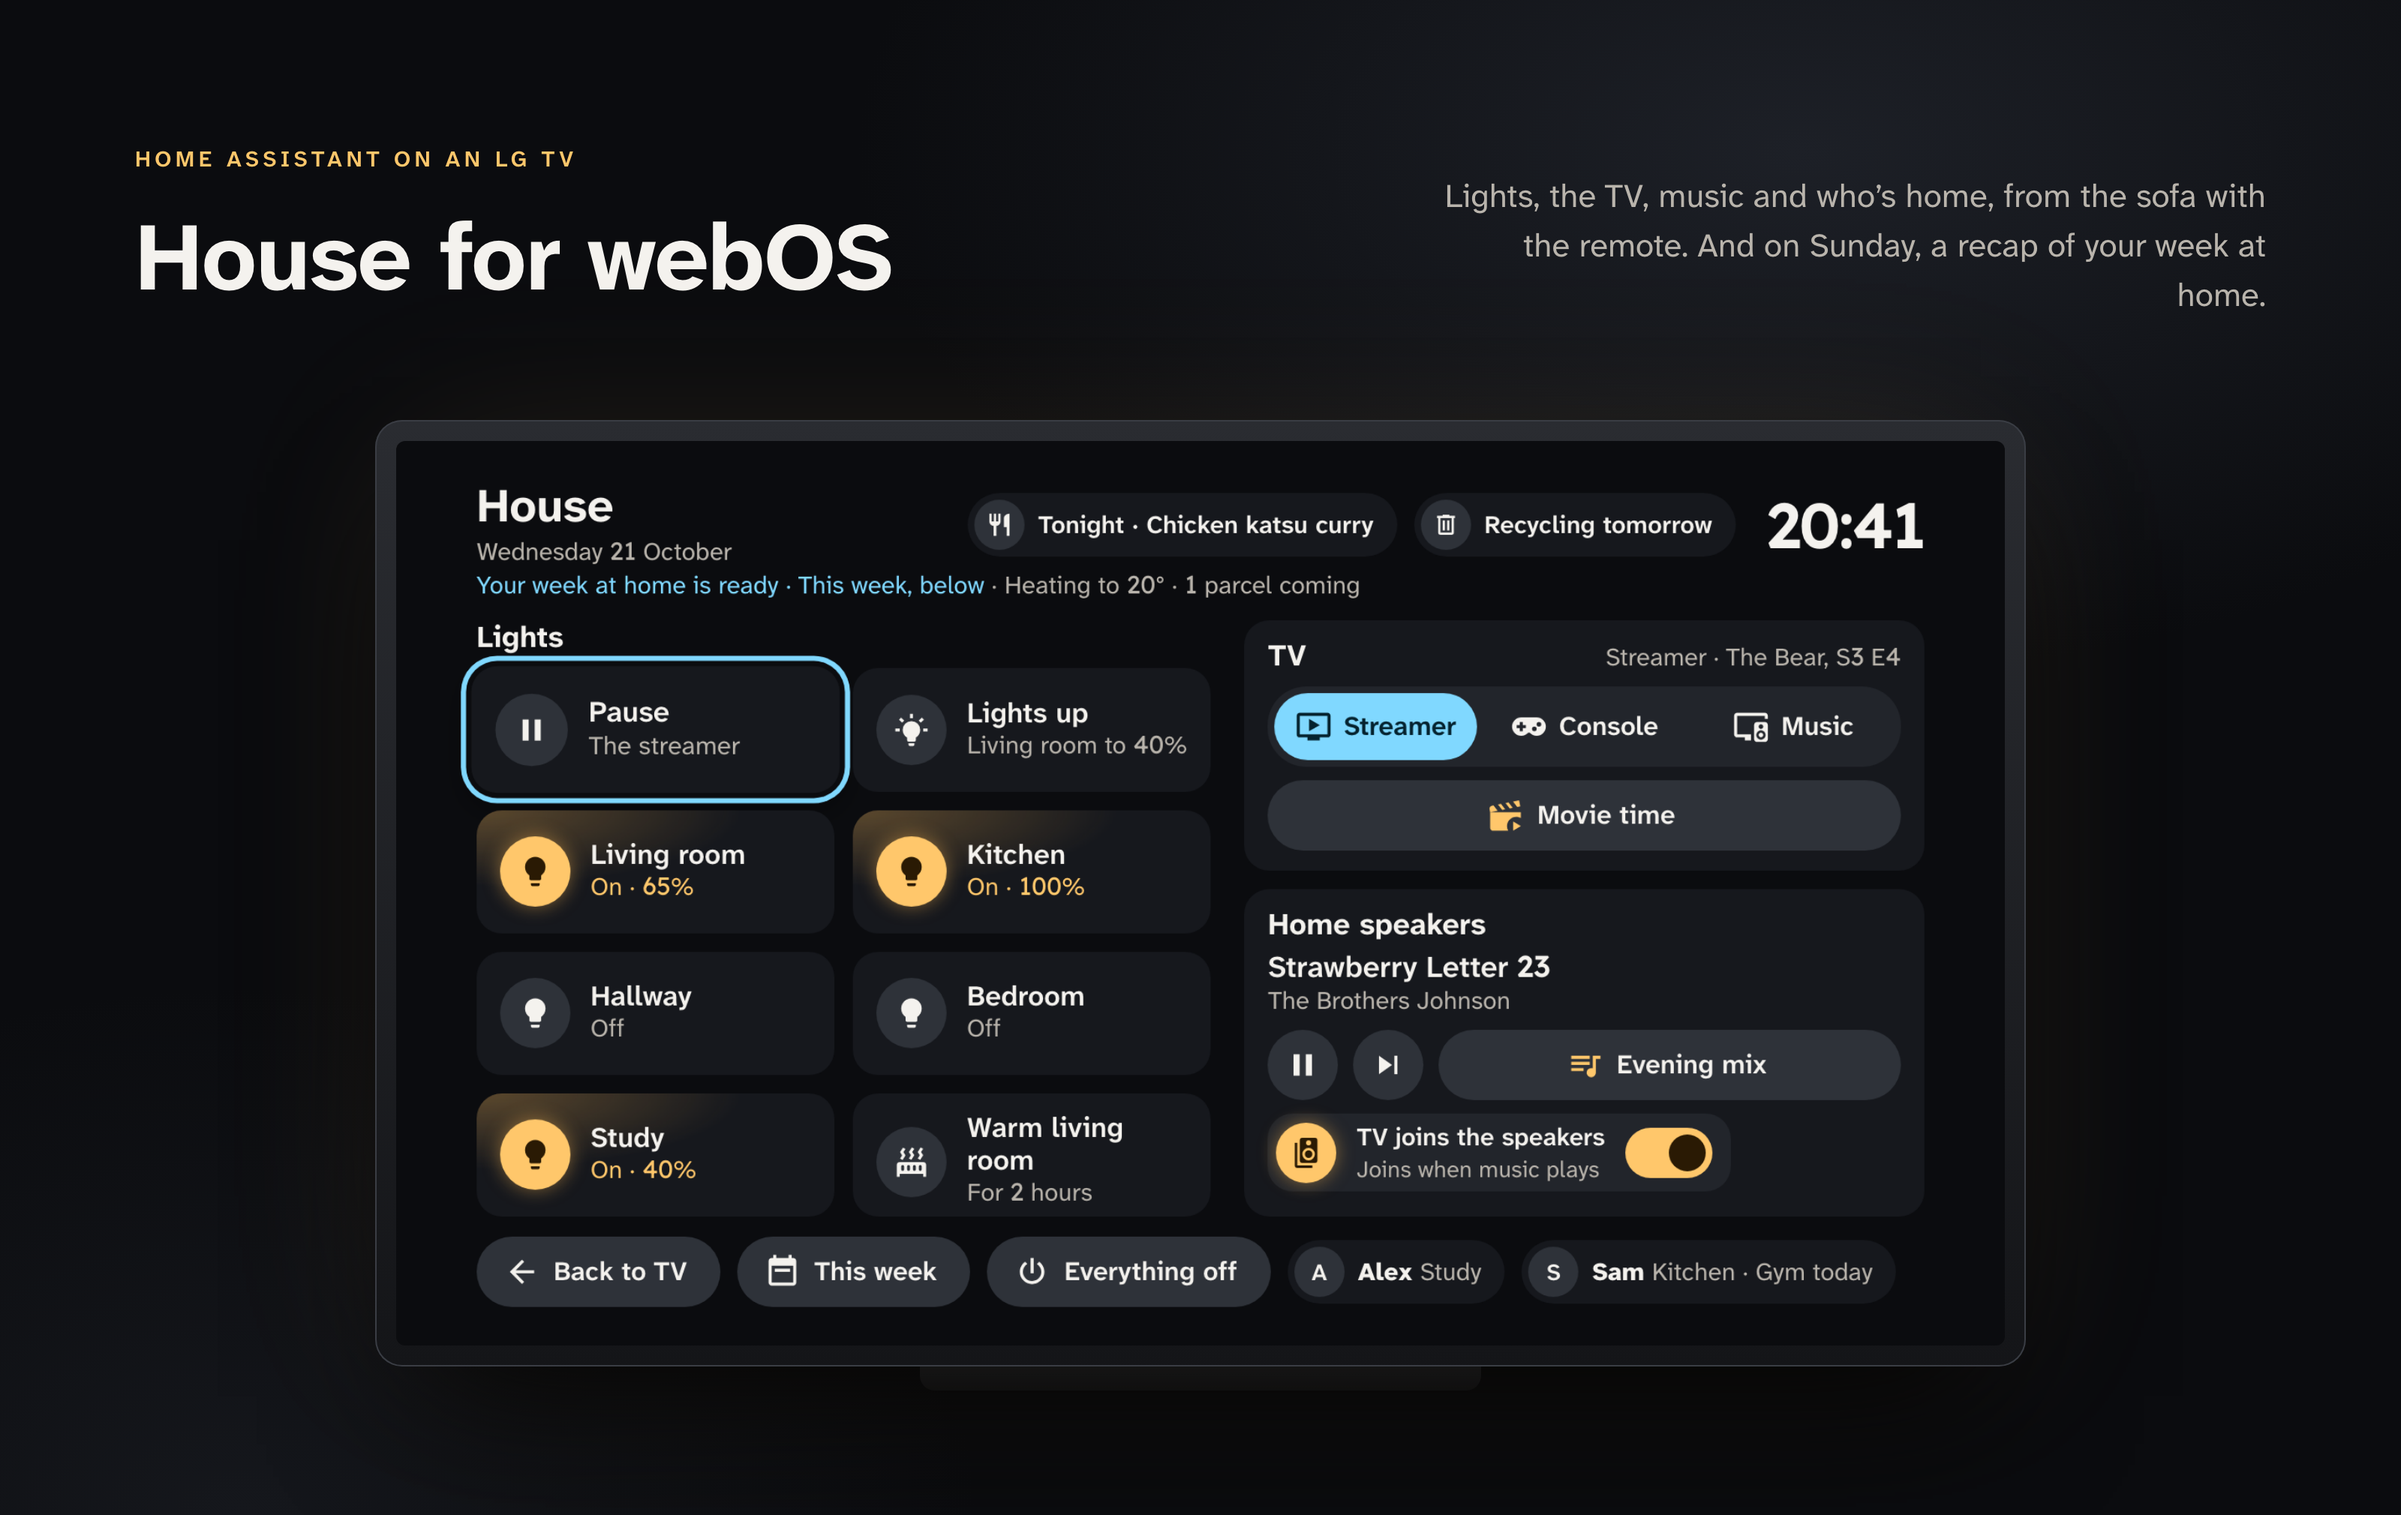
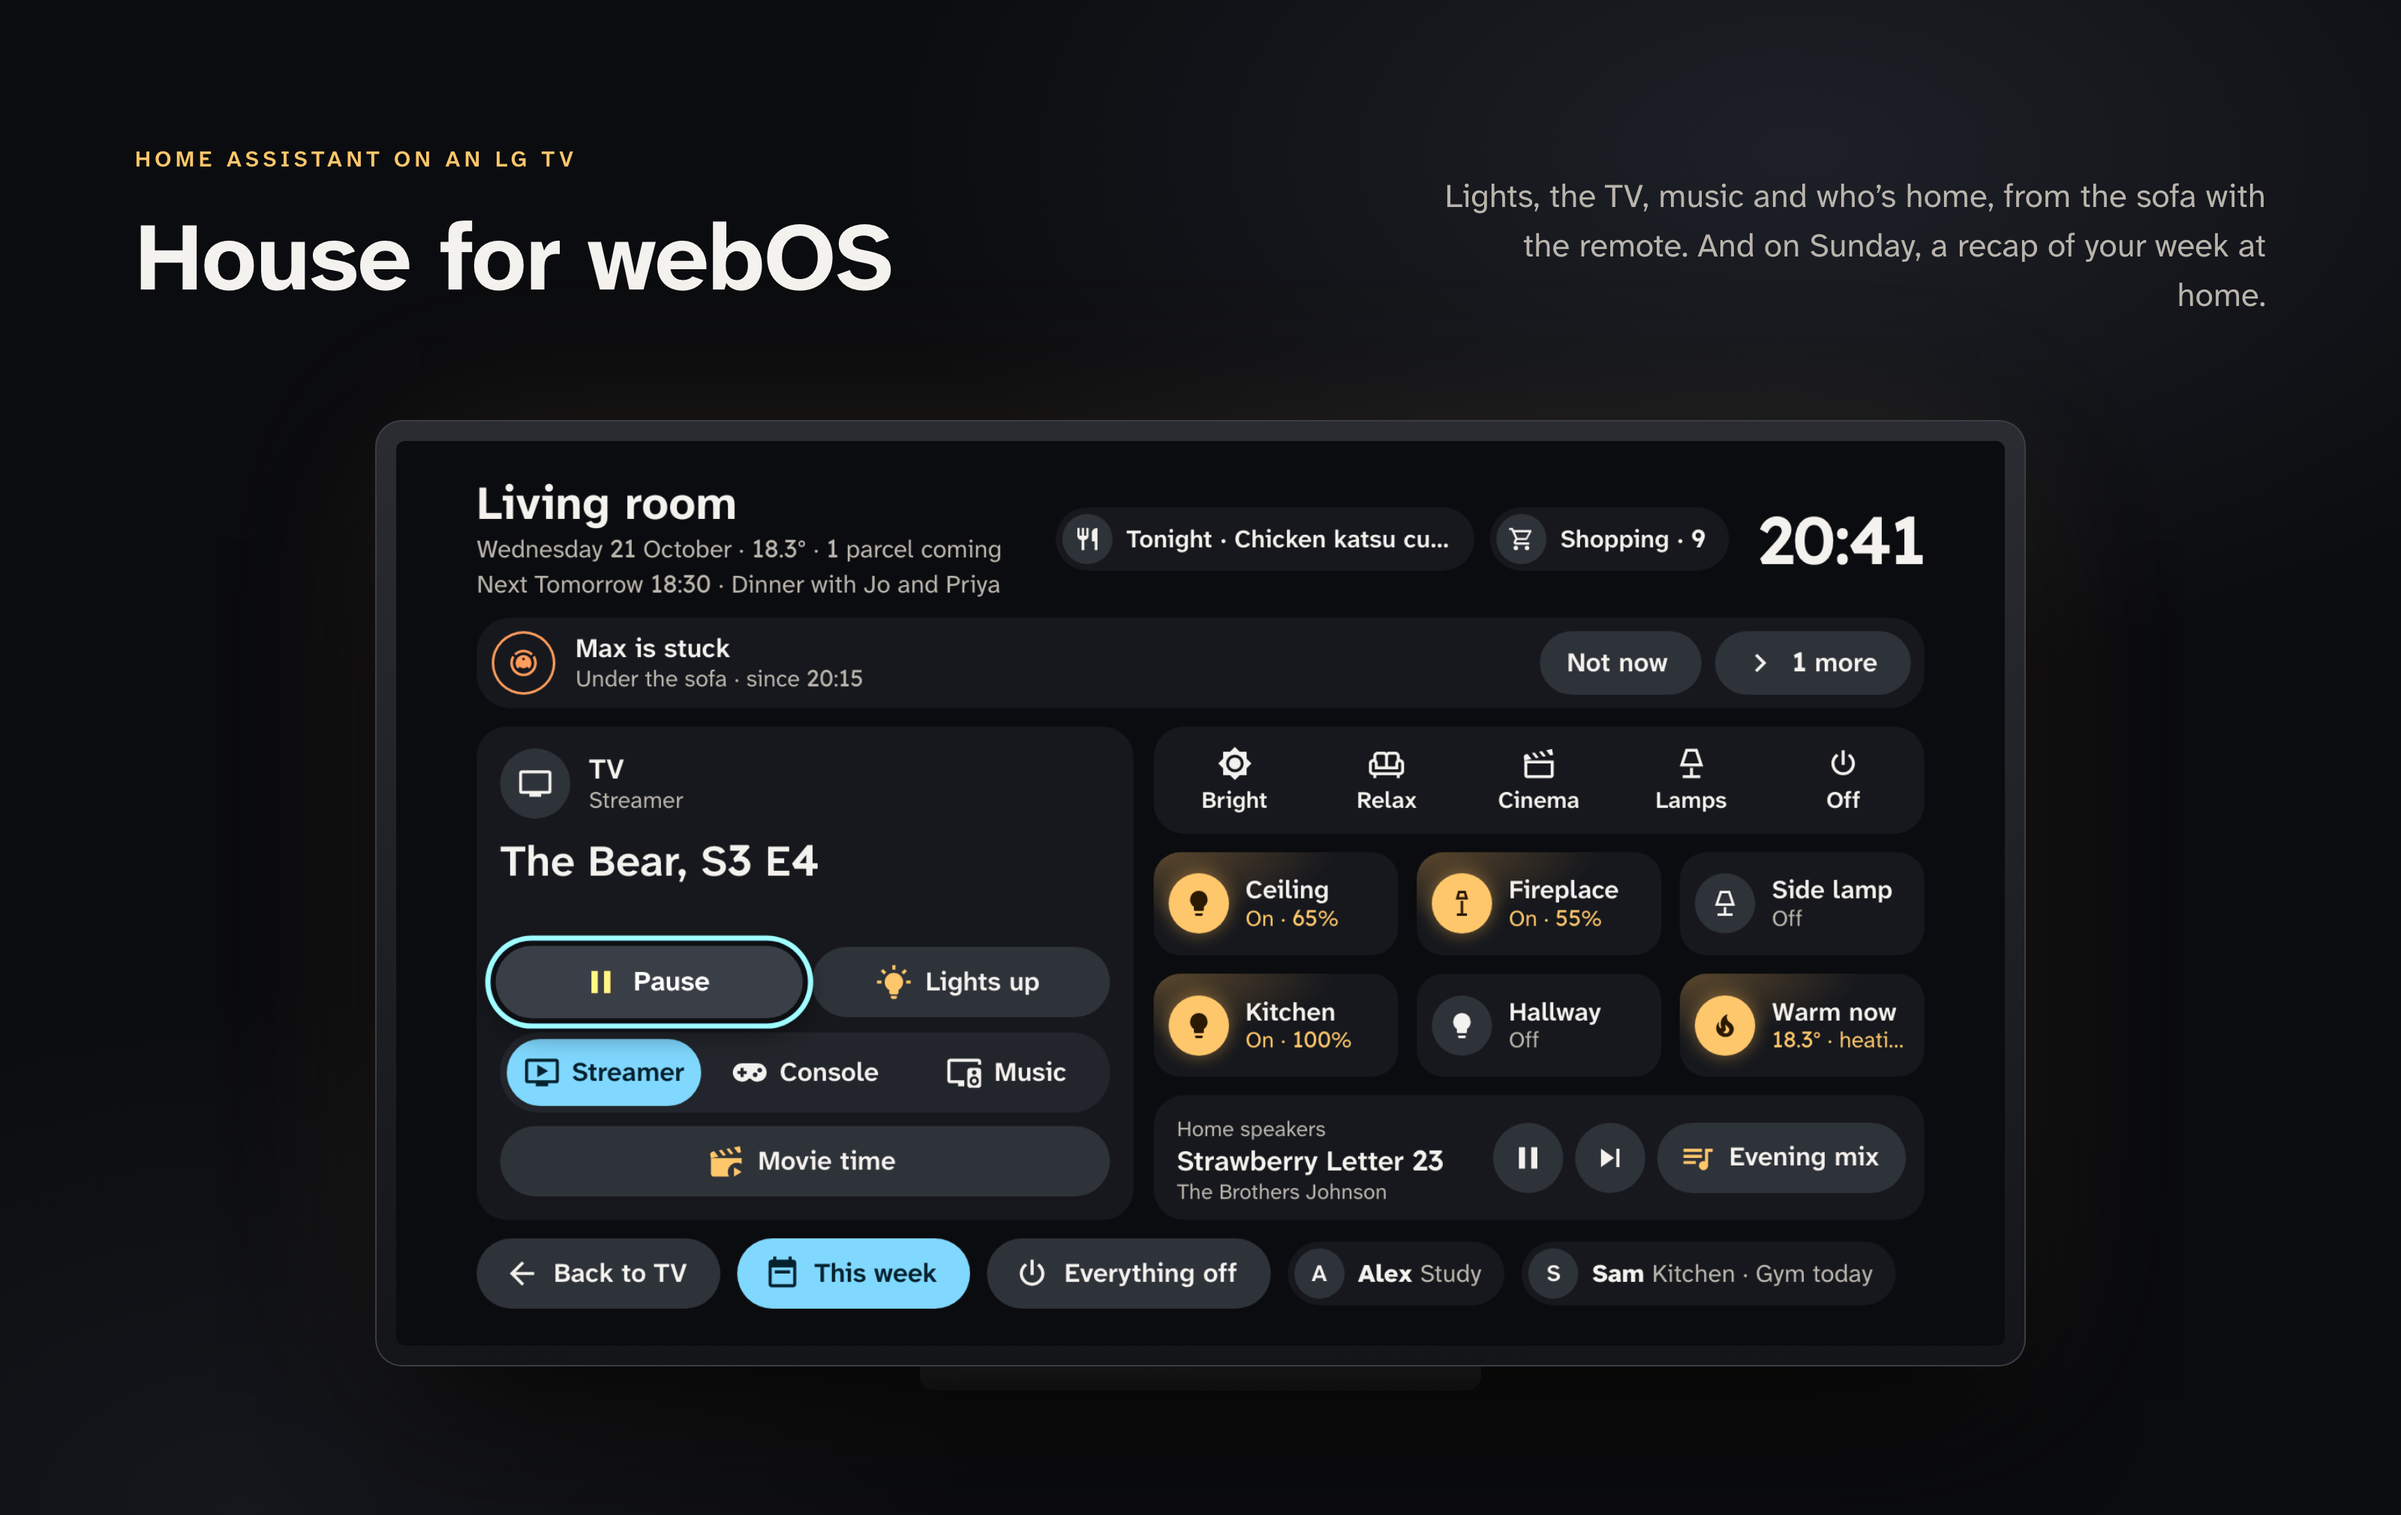
House 1.5.0

Changed region(s): [[0.1875, 0.3119, 0.8125, 0.8733]]

diff --git a/app/demo.js b/app/demo.js
@@ -252,7 +252,6 @@
       ] },
       records: [{ icon: 'trophy', text: '11,430 steps: Alex’s best day since August' },
                 { icon: 'lightningBolt', text: '£29.60 on energy: the priciest week in 9 weeks', tone: 'bad' }],
-      house_says: { text: 'I opened the front door 15 times this week. Mostly for parcels, I suspect.' },
       next_week: {
         forecast: [
           { day: 'Mon', condition: 'partlycloudy', high: 19, low: 12 }, { day: 'Tue', condition: 'cloudy', high: 18, low: 11 },

diff --git a/tools/package.py b/tools/package.py
@@ -2,7 +2,7 @@
 home and safe to share; the config goes onto the TV separately, after installing (tools/push_config.py).
 
     python3 tools/package.py                         # writes dist/<id>_<version>_all.ipk
-    python3 tools/package.py --app-id com.example.house --version 1.4.0
+    python3 tools/package.py --app-id com.example.house --version 1.5.0
 
 Install with the webOS CLI in Developer Mode:
 

diff --git a/README.md b/README.md
@@ -40,9 +40,9 @@ arrow keys and Enter; add `&recap` to the URL for the week recap, or `&theme=aft
 - A Home Assistant user for the TV. Make it non-admin, ideally "local access only", and create a long-lived access
   token for it from its profile page.
 
-> **Status:** an earlier private build of this app runs every day on a rooted 2021 C1. Versions 1.1 to 1.4 have only
-> run in the browser demo and the tests so far. The public package, `ares-install`, the Developer Mode SSH push and
-> launching by `io.github.haydengriffin.house` haven't been tried on a TV yet. Reports either way are very welcome.
+> **Status:** House 1.4 runs on a rooted 2021 C1 (a private build of the same code, installed over SSH, since 21 Oct
+> 2026). The public package, `ares-install`, the Developer Mode SSH push and launching by `io.github.haydengriffin.house`
+> haven't been tried on a TV yet. Reports either way are very welcome.
 
 ## Install
 
@@ -54,7 +54,7 @@ config goes onto the TV separately, next to the installed app.
    ```bash
    python3 tools/package.py
    ares-setup-device            # once, to add the TV
-   ares-install -d <tv> dist/io.github.haydengriffin.house_1.4.0_all.ipk
+   ares-install -d <tv> dist/io.github.haydengriffin.house_1.5.0_all.ipk
    ```
 
 2. Copy `config.example.json` to `config.json` and fill in the websocket URL, the token and your entities. Everything

diff --git a/CHANGELOG.md b/CHANGELOG.md
@@ -1,5 +1,16 @@
 # Changelog
 
+## 1.5.0
+
+- Home follows the house's living-room tablet: the room's name and a short line, one notice row (`notices`) with its
+  actions, the TV as the main card (what's on, quick actions, sources, Movie time), a `scenes` row, lamp tiles with a
+  `warmth` tile, and the speakers on one row. `music.toggle` is gone.
+- Lists: `lists` and a chip's `open: "list:0"` open the shopping list grouped by aisle (`aisles`); OK ticks an item off,
+  with Undo for six seconds, and Back closes it.
+- Recap: "What we did" (the week's activities) and "Out and about" (routes drawn from GPS points), a detailed "What we
+  watched" (shows, days, inputs), a card per new recipe, "Energy over time" (12 weeks, electricity and gas, last year),
+  bad news as "Worth knowing" instead of a record, both floors' cleaning maps, and next week's events.
+
 ## 1.4.0
 
 - Recap: `gym`, the week's days at the gym for each person with a dot a day, after the goals card; the line is the
